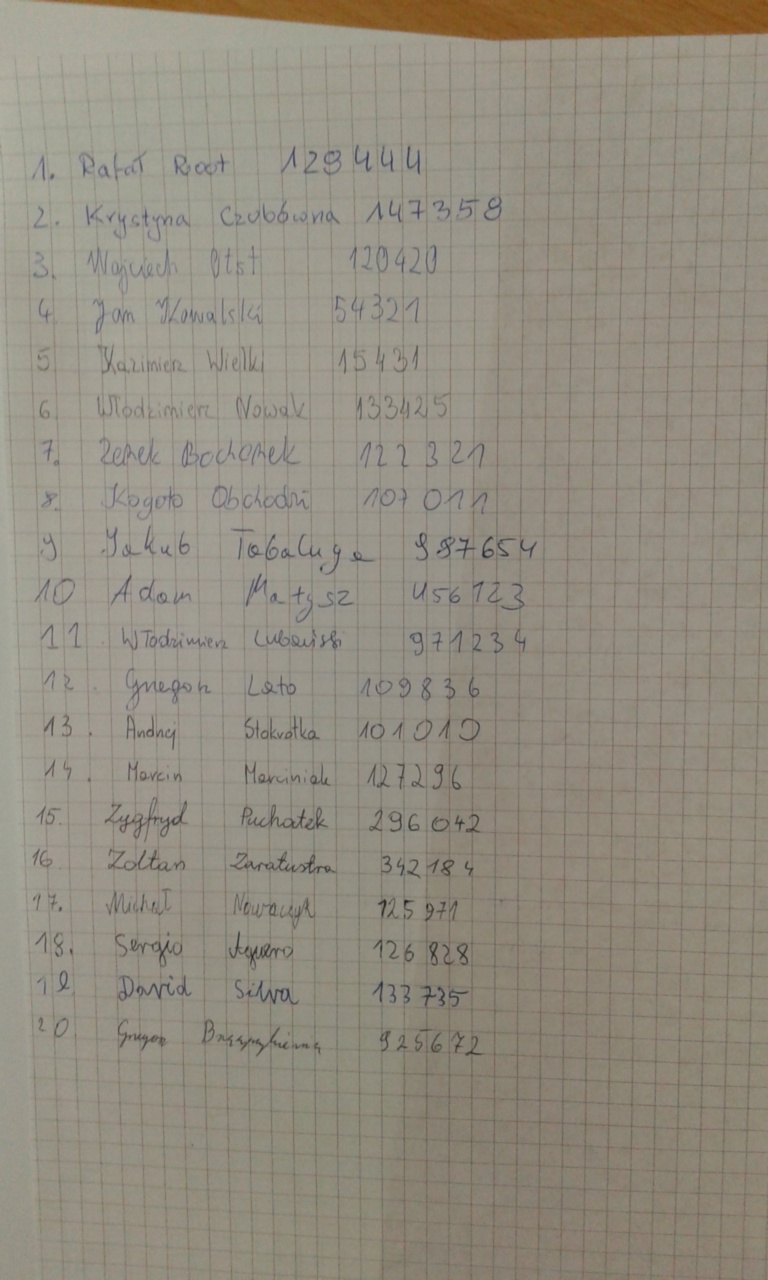
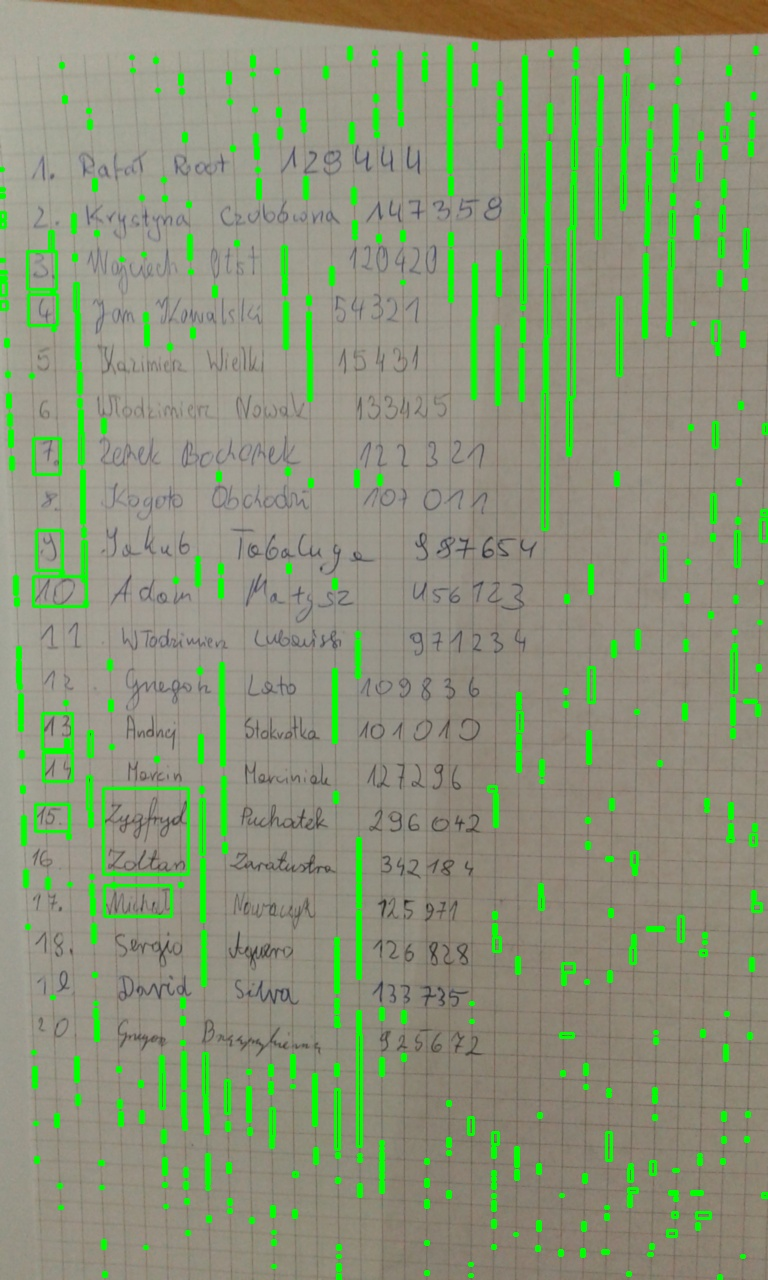
Change code to find letters

diff --git a/main.py b/main.py
@@ -29,8 +29,9 @@ def process(img, f_name):
         cv2.drawContours(mask, contours, idx, (255, 255, 255), -1)
         r = float(cv2.countNonZero(mask[y:y+h, x:x+w])) / (w * h)
 
-        if r > 0.45 and w > 100 and h > 100:
-            cv2.rectangle(rgb, (x, y), (x+w-1, y+h-1), (0, 255, 0), 2)
+        if w < 400 and h < 200:
+            if r > 0.45 and w > 3 and h > 2:
+                cv2.rectangle(rgb, (x, y), (x+w-1, y+h-1), (0, 255, 0), 2)
 
     # cv2.imshow('rects', rgb)
     cv2.imwrite("examples/" + f_name, rgb)
